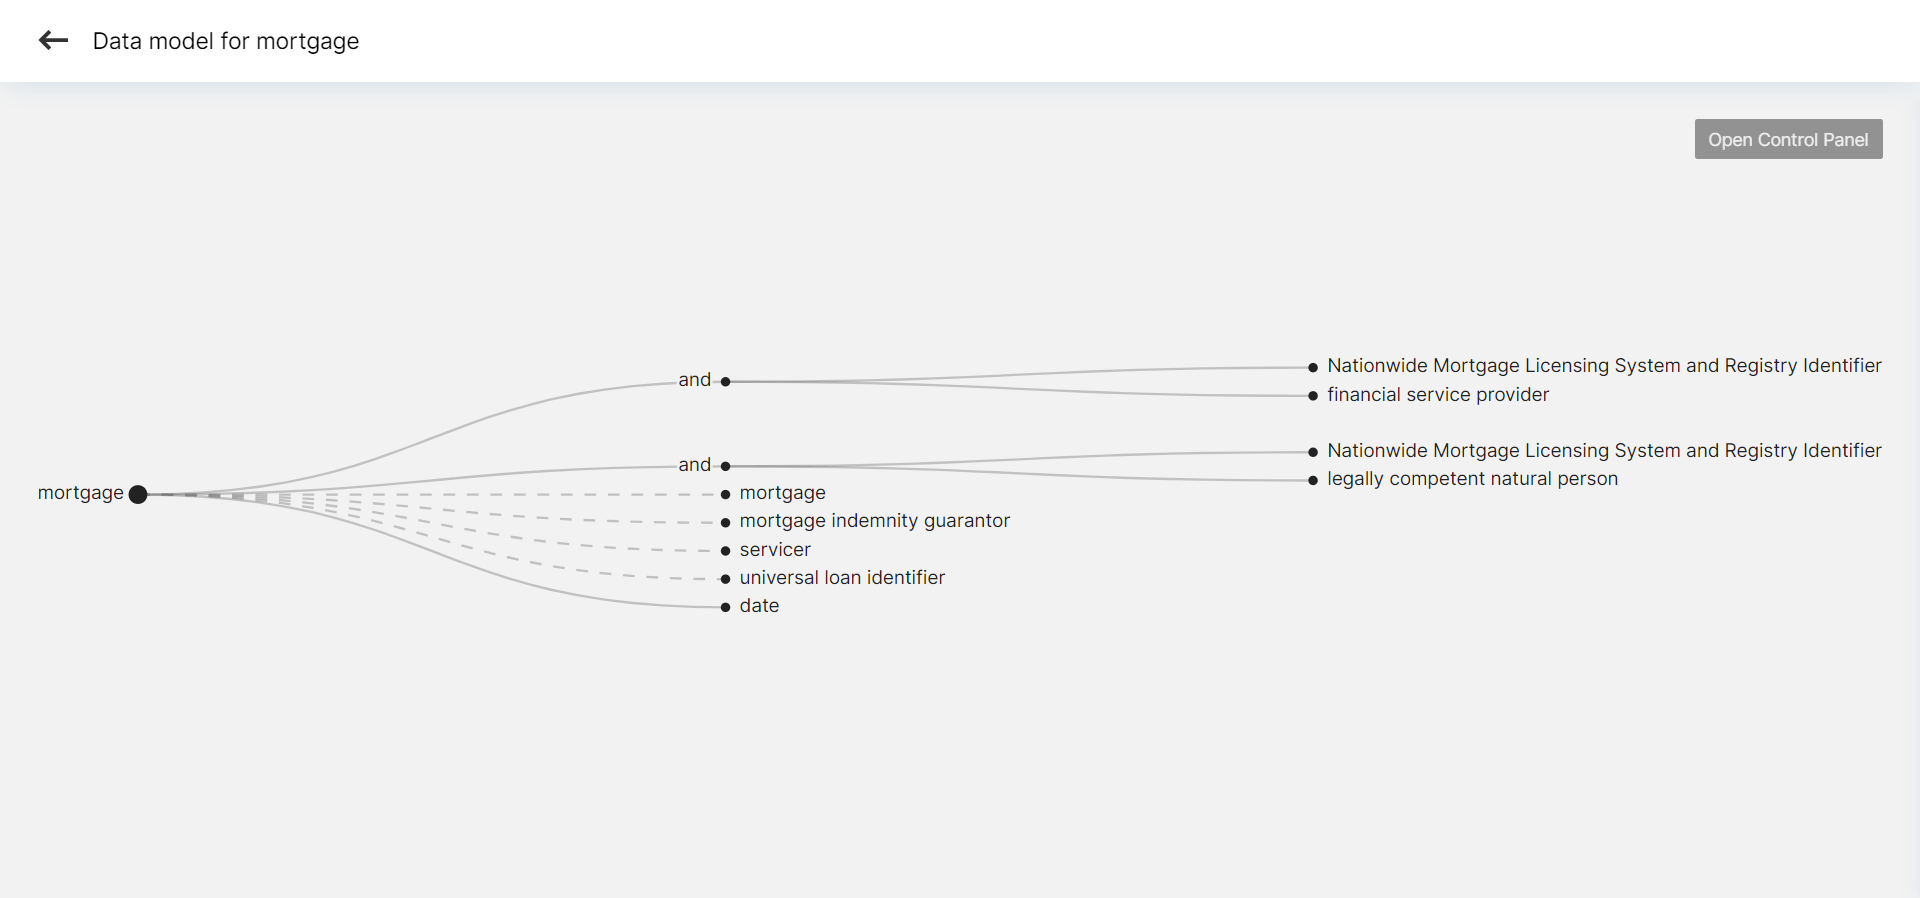
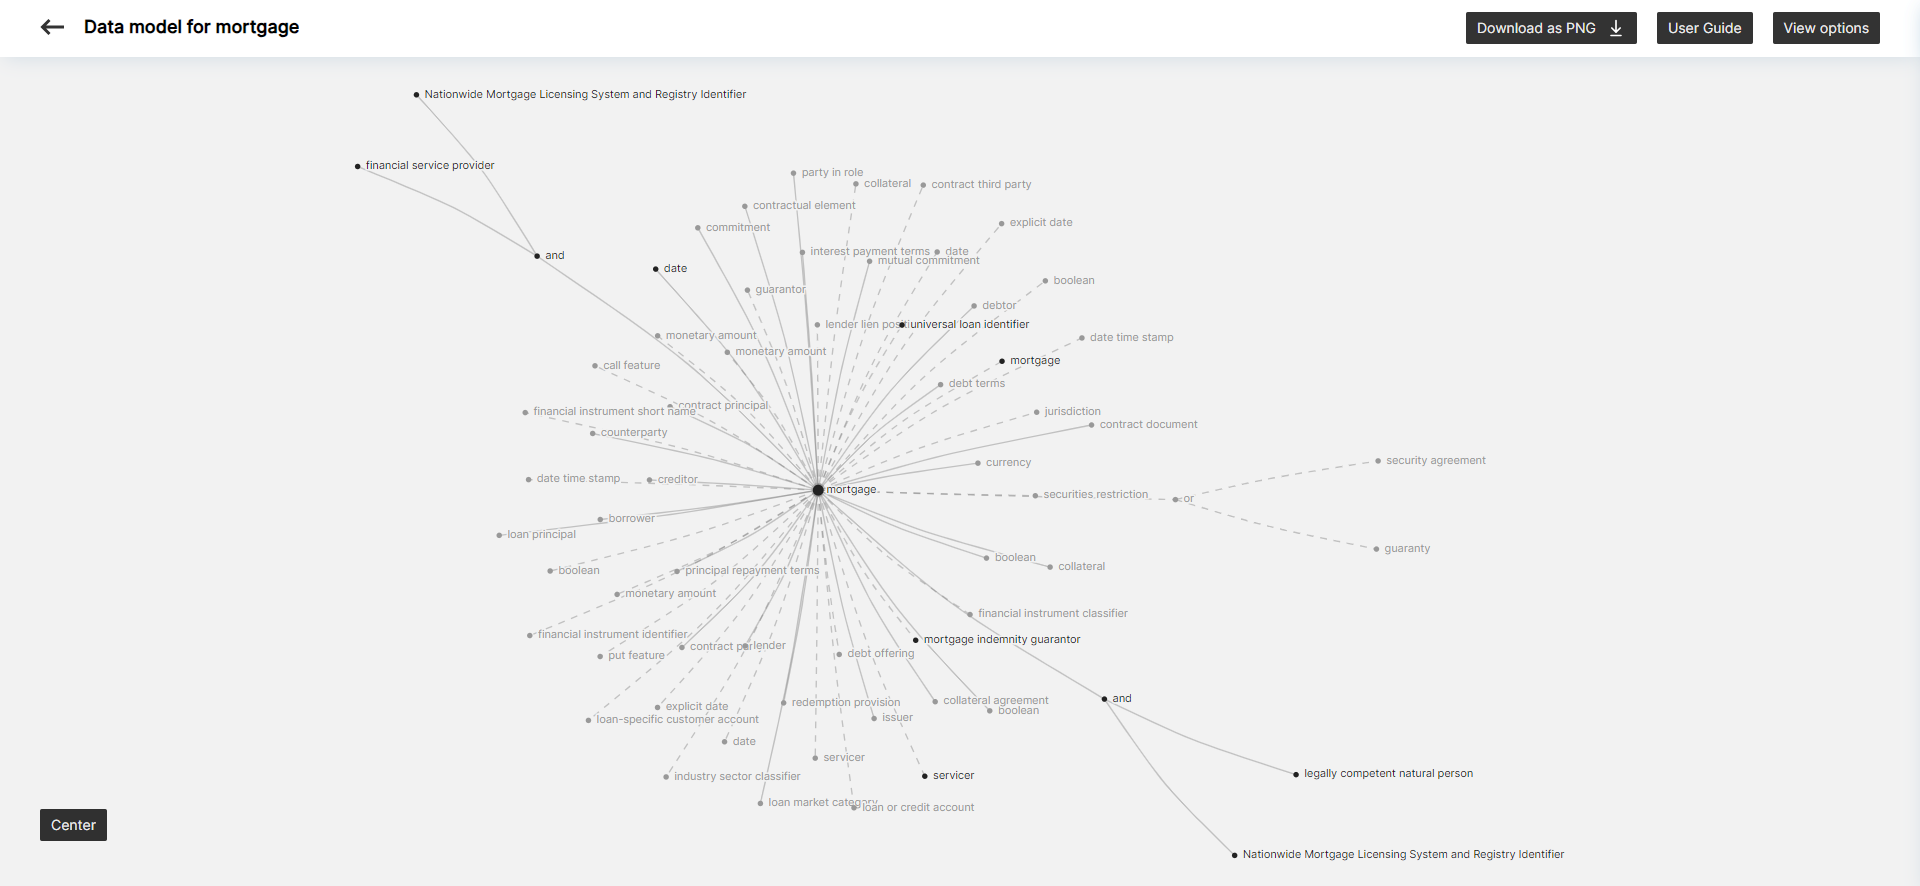
Update visualization guide images

diff --git a/general/components/Ontology/GraphGuide.vue b/general/components/Ontology/GraphGuide.vue
@@ -75,13 +75,6 @@
             In the graph section the user has access to
             <span
               class="guide-navigation"
-              @click="navigateToPage('guide-layouts')"
-              @keydown="navigateToPage('guide-layouts')"
-            >layout</span
-            >
-            and
-            <span
-              class="guide-navigation"
               @click="navigateToPage('guide-connections')"
               @keydown="navigateToPage('guide-connections')"
             >connections</span
@@ -103,7 +96,7 @@
               fluid
               center
               alt="Graph general image"
-              style="transform-origin: left"
+              style="transform-origin: top left"
             ></b-img>
           </div>
           <p>
@@ -111,8 +104,8 @@
             screen which translates to more comfortable experience.
           </p>
           <p>
-            The "Open Control Panel" button in top right corner can be used to
-            open the <b>Control Panel</b>.
+            The "View options" button in top right corner can be used to
+            open the <b>View options</b> menu.
           </p>
 
           <div class="img-zoom">
@@ -124,12 +117,8 @@
               style="transform-origin: top right"
             ></b-img>
           </div>
-          <p>The Control Panel is divided into four sections:</p>
+          <p>The view options menu is divided into four sections:</p>
           <ul>
-            <li>
-              <b>Menu</b> - use "Center" to reset zoom and pan, the "User Guide"
-              button opens this guide window,
-            </li>
             <li>
               <b>Connections</b> - filter nodes based on connection type to the
               root element. Read more in the
@@ -164,10 +153,21 @@
               >
               section,
             </li>
+            <li>
+              <b>Configuration</b> - configure node distance and toggle all labels visibility.
+              Read more in the
+              <span
+                class="guide-navigation"
+                @click="navigateToPage('guide-configuration')"
+                @keydown="navigateToPage('guide-configuration')"
+              >Configuration</span
+              >
+              section,
+            </li>
           </ul>
 
           <p>
-            The Control Panel can be closed at any moment with the close "X"
+            The view options menu can be closed at any moment with the close "X"
             icon next to the title.
           </p>
 
@@ -266,7 +266,7 @@
               src="../../assets/img/graph-guide-layouts-0.png"
               fluid
               alt="Graph general image"
-              style="transform-origin: right"
+              style="transform-origin: top right"
             ></b-img>
           </div>
           <p>
@@ -421,13 +421,13 @@
               src="../../assets/img/graph-guide-layouts-0.png"
               fluid
               alt="Graph general image"
-              style="transform-origin: right bottom"
+              style="transform-origin: right"
             ></b-img>
           </div>
           <p>
             The visualization tool offers multiple node layouts. The user can
             select node placement most optimal for his use. The layouts can be
-            selected by pressing corresponding buttons in Layout control panel
+            selected by pressing corresponding buttons in Layout view options
             section.
           </p>
 
@@ -571,7 +571,7 @@
           </p>
           <p>
             The nodes can be sorted by pressing corresponding buttons in the
-            Sort section of Control Panel.
+            Sort section of view options.
           </p>
 
           <h2>2. A - Z</h2>

diff --git a/general/assets/scss/global.scss b/general/assets/scss/global.scss
@@ -293,6 +293,7 @@
   }
   &:disabled,
   &[disabled="disabled"] {
+    opacity: 1;
     border: 1px solid var(--black-black-40, rgba(0, 0, 0, 0.40));
     background: var(--white-white-80, rgba(255, 255, 255, 0.80));
     color: var(--black-black-40, rgba(0, 0, 0, 0.40));
